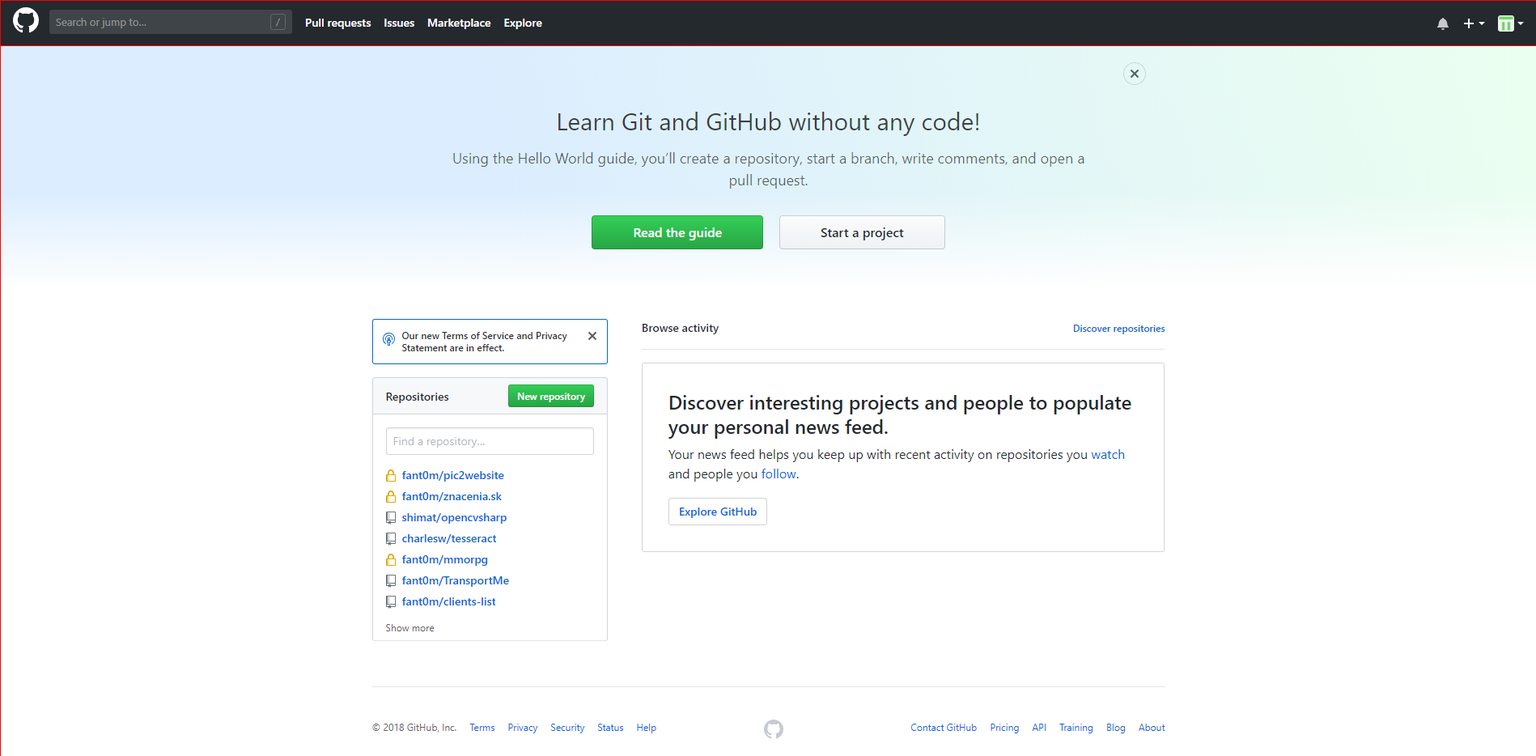
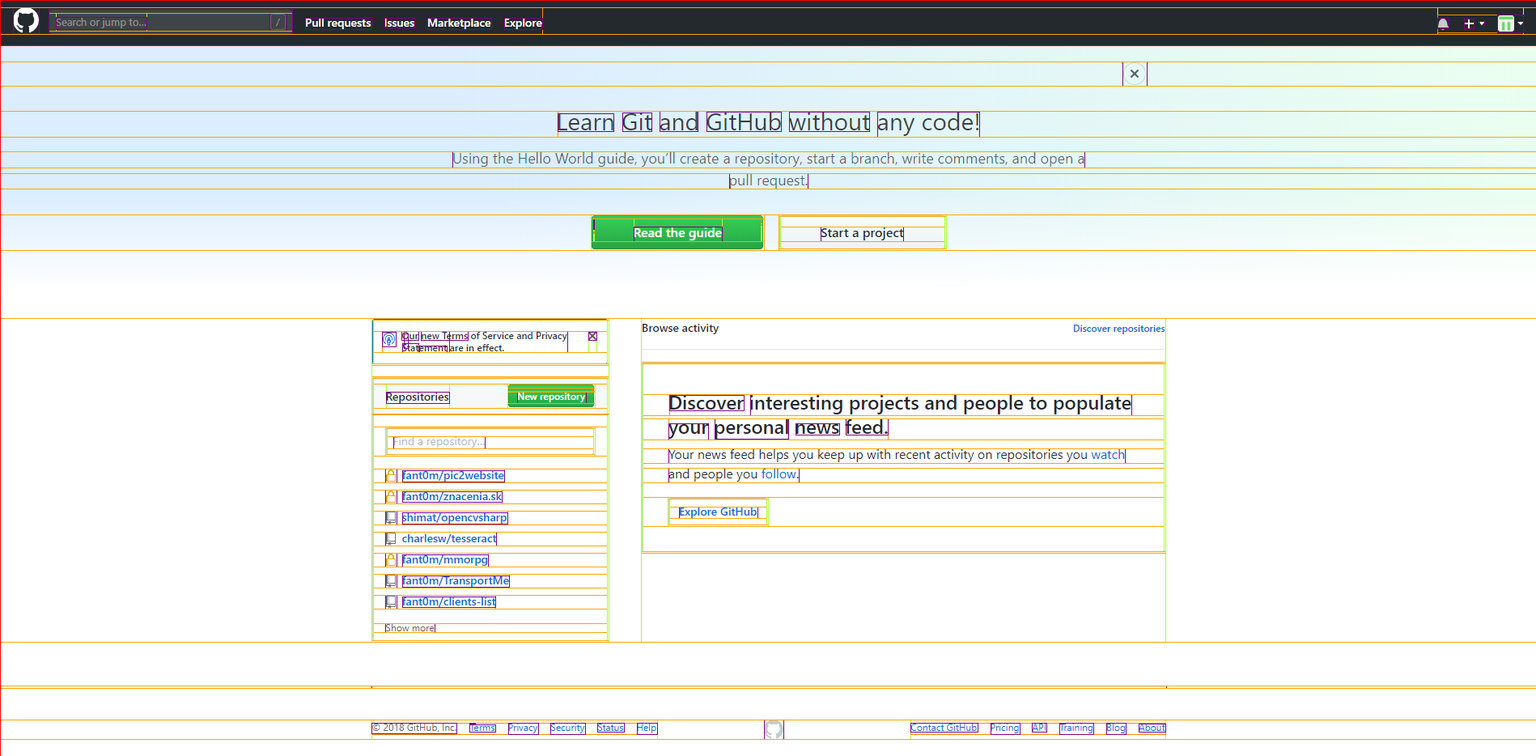
padding/margin update

diff --git a/RazorPagesMovie/test.html b/RazorPagesMovie/test.html
@@ -1,1 +1,1 @@
-<!DOCTYPE html><html><head><link href="C:/Users/tomsh/source/repos/RazorPagesMovie/RazorPagesMovie/wwwroot/style.css" rel="stylesheet"><meta charset="UTF-8"><title>Test</title><style>section { width: 100%; }</style></head><body><section style="height:56px;background: rgb(169,83,191);margin:0px 0px 0px 0px;padding:0px 0px 0px 0px;"><div class="container-fluid"></div></section><section style="height:878px;background: rgb(73,44,190);margin:0px 0px 0px 0px;padding:0px 0px 0px 0px;"><div class="container"></div></section></body></html>
+<!DOCTYPE html><html><head><link href="C:/Users/tomsh/source/repos/RazorPagesMovie/RazorPagesMovie/wwwroot/style.css" rel="stylesheet"><meta charset="UTF-8"><title>Test</title><style>section { width: 100%; }</style></head><body><section style="height:56px;background: rgb(52,126,37);margin:0px 0px 0px 0px;padding:0px 0px 0px 0px;"><div class="container-fluid" style="width:2000px;"><div class="row" style="background: rgb(41,169,231);margin:0px 0px 0px 0px;padding:9px 16px 14px 16px;"><div class="col" style="width:654px;margin:0px 1106px 0px 0px;padding:0px 0px 0px 0px;"><div class="row" style="margin:0px 0px 0px 0px;padding:0px 0px 0px 0px;"><div class="col" style="margin:0px 0px 0px 0px;padding:0px 0px 0px 0px;"><img src="C:/Users/tomsh/source/repos/RazorPagesMovie/RazorPagesMovie/wwwroot/images/image-3.png" style="margin:0px 0px 0px 0px;padding:0px 0px 0px 0px;"/><img src="C:/Users/tomsh/source/repos/RazorPagesMovie/RazorPagesMovie/wwwroot/images/image-4.png" style="margin:0px 0px 0px 12px;padding:0px 0px 0px 0px;"/><img src="C:/Users/tomsh/source/repos/RazorPagesMovie/RazorPagesMovie/wwwroot/images/image-5.png" style="margin:0px 0px 0px 16px;padding:0px 0px 0px 0px;"/><img src="C:/Users/tomsh/source/repos/RazorPagesMovie/RazorPagesMovie/wwwroot/images/image-6.png" style="margin:0px 0px 0px 16px;padding:0px 0px 0px 0px;"/><img src="C:/Users/tomsh/source/repos/RazorPagesMovie/RazorPagesMovie/wwwroot/images/image-7.png" style="margin:0px 0px 0px 16px;padding:0px 0px 0px 0px;"/><img src="C:/Users/tomsh/source/repos/RazorPagesMovie/RazorPagesMovie/wwwroot/images/image-8.png" style="margin:0px 0px 0px 16px;padding:0px 0px 0px 0px;"/></div></div></div><div class="col" style="margin:0px 0px 0px 0px;padding:0px 0px 0px 0px;"><div class="row" style="margin:0px 0px 0px 0px;padding:9px 0px 2px 0px;"><div class="col" style="margin:0px 0px 0px 0px;padding:0px 0px 0px 0px;"><img src="C:/Users/tomsh/source/repos/RazorPagesMovie/RazorPagesMovie/wwwroot/images/image-9.png" style="margin:0px 0px 0px 0px;padding:0px 0px 0px 0px;"/><img src="C:/Users/tomsh/source/repos/RazorPagesMovie/RazorPagesMovie/wwwroot/images/image-10.png" style="margin:0px 0px 0px 19px;padding:0px 0px 0px 0px;"/><img src="C:/Users/tomsh/source/repos/RazorPagesMovie/RazorPagesMovie/wwwroot/images/image-11.png" style="margin:0px 0px 0px 7px;padding:0px 0px 0px 0px;"/><img src="C:/Users/tomsh/source/repos/RazorPagesMovie/RazorPagesMovie/wwwroot/images/image-12.png" style="margin:0px 0px 0px 16px;padding:0px 0px 0px 0px;"/></div></div></div></div></div></section><section style="height:878px;background: rgb(252,88,19);margin:0px 0px 0px 0px;padding:0px 0px 0px 0px;"><div class="container" style="width:1200px;"><div class="row" style="background: rgb(247,216,108);margin:0px 0px 0px 0px;padding:76px 371px 0px 1277px;"><div class="col" style="margin:0px 0px 0px 0px;padding:0px 0px 0px 0px;"><div class="row" style="margin:0px 0px 0px 0px;padding:0px 0px 0px 0px;"><div class="col" style="margin:0px 0px 0px 0px;padding:0px 0px 0px 0px;"><img src="C:/Users/tomsh/source/repos/RazorPagesMovie/RazorPagesMovie/wwwroot/images/image-50.png" style="margin:0px 0px 0px 0px;padding:0px 0px 0px 0px;"/></div></div></div></div><div class="row" style="background: rgb(218,134,229);margin:0px 0px 0px 0px;padding:31px 578px 0px 579px;"><div class="col" style="margin:0px 0px 0px 0px;padding:0px 0px 0px 0px;"><div class="row" style="margin:0px 0px 0px 0px;padding:0px 0px 0px 0px;"><div class="col" style="margin:0px 0px 0px 0px;padding:0px 0px 0px 0px;"><img src="C:/Users/tomsh/source/repos/RazorPagesMovie/RazorPagesMovie/wwwroot/images/image-51.png" style="margin:0px 0px 0px 0px;padding:0px 0px 0px 0px;"/><img src="C:/Users/tomsh/source/repos/RazorPagesMovie/RazorPagesMovie/wwwroot/images/image-52.png" style="margin:0px 0px 0px 11px;padding:0px 0px 0px 0px;"/><img src="C:/Users/tomsh/source/repos/RazorPagesMovie/RazorPagesMovie/wwwroot/images/image-53.png" style="margin:0px 0px 0px 10px;padding:0px 0px 0px 0px;"/><img src="C:/Users/tomsh/source/repos/RazorPagesMovie/RazorPagesMovie/wwwroot/images/image-54.png" style="margin:0px 0px 0px 11px;padding:0px 0px 0px 0px;"/><img src="C:/Users/tomsh/source/repos/RazorPagesMovie/RazorPagesMovie/wwwroot/images/image-55.png" style="margin:0px 0px 0px 10px;padding:0px 0px 0px 0px;"/><img src="C:/Users/tomsh/source/repos/RazorPagesMovie/RazorPagesMovie/wwwroot/images/image-56.png" style="margin:0px 0px 0px 10px;padding:0px 0px 0px 0px;"/></div></div></div></div><div class="row" style="background: rgb(148,223,182);margin:0px 0px 0px 0px;padding:18px 448px 0px 449px;"><div class="col" style="margin:0px 0px 0px 0px;padding:0px 0px 0px 0px;"><div class="row" style="margin:0px 0px 0px 0px;padding:0px 0px 0px 0px;"><div class="col" style="margin:0px 0px 0px 0px;padding:0px 0px 0px 0px;"><img src="C:/Users/tomsh/source/repos/RazorPagesMovie/RazorPagesMovie/wwwroot/images/image-57.png" style="margin:0px 0px 0px 0px;padding:0px 0px 0px 0px;"/></div></div></div></div><div class="row" style="background: rgb(152,86,152);margin:0px 0px 0px 0px;padding:7px 790px 0px 791px;"><div class="col" style="margin:0px 0px 0px 0px;padding:0px 0px 0px 0px;"><div class="row" style="margin:0px 0px 0px 0px;padding:0px 0px 0px 0px;"><div class="col" style="margin:0px 0px 0px 0px;padding:0px 0px 0px 0px;"><img src="C:/Users/tomsh/source/repos/RazorPagesMovie/RazorPagesMovie/wwwroot/images/image-58.png" style="margin:0px 0px 0px 0px;padding:0px 0px 0px 0px;"/></div></div></div></div><div class="row" style="background: rgb(115,78,124);margin:0px 0px 0px 0px;padding:32px 619px 0px 620px;"><div class="col" style="margin:0px 0px 0px 0px;padding:0px 0px 0px 0px;"><div class="row" style="background: rgb(133,57,129);margin:0px 0px 0px 0px;padding:0px 0px 0px 0px;"><div class="col" style="margin:0px 0px 0px 0px;padding:0px 0px 0px 0px;"><div class="row" style="background: rgb(49,118,130);margin:0px 0px 0px 0px;padding:5px 3px 11px 3px;"><div class="col" style="width:1px;margin:0px 49px 0px 0px;padding:0px 0px 0px 0px;"><div class="row" style="margin:0px 0px 0px 0px;padding:0px 0px 0px 0px;"><div class="col" style="margin:0px 0px 0px 0px;padding:0px 0px 0px 0px;"><img src="C:/Users/tomsh/source/repos/RazorPagesMovie/RazorPagesMovie/wwwroot/images/image-13.png" style="margin:0px 0px 0px 0px;padding:0px 0px 0px 0px;"/></div></div><div class="row" style="margin:0px 0px 0px 0px;padding:3px 0px 10px 0px;"><div class="col" style="margin:0px 0px 0px 0px;padding:0px 0px 0px 0px;"></div></div></div><div class="col" style="width:109px;margin:0px 48px 0px 0px;padding:0px 0px 0px 0px;"><div class="row" style="margin:0px 0px 0px 0px;padding:10px 0px 0px 0px;"><div class="col" style="margin:0px 0px 0px 0px;padding:0px 0px 0px 0px;"><img src="C:/Users/tomsh/source/repos/RazorPagesMovie/RazorPagesMovie/wwwroot/images/image-14.png" style="margin:0px 0px 0px 0px;padding:0px 0px 0px 0px;"/></div></div></div><div class="col" style="margin:0px 0px 0px 0px;padding:0px 0px 0px 0px;"><div class="row" style="margin:0px 0px 0px 0px;padding:1px 0px 0px 0px;"><div class="col" style="margin:0px 0px 0px 0px;padding:0px 0px 0px 0px;"></div></div><div class="row" style="margin:0px 0px 0px 0px;padding:2px 0px 20px 0px;"><div class="col" style="margin:0px 0px 0px 0px;padding:0px 0px 0px 0px;"></div></div></div></div></div></div><div class="row" style="background: rgb(133,57,129);margin:0px 0px 0px 0px;padding:0px 0px 0px 0px;"><div class="col" style="margin:0px 0px 0px 0px;padding:0px 0px 0px 0px;"><div class="row" style="background: rgb(49,118,130);margin:0px 0px 0px 0px;padding:5px 3px 11px 3px;"><div class="col" style="width:1px;margin:0px 49px 0px 0px;padding:0px 0px 0px 0px;"><div class="row" style="margin:0px 0px 0px 0px;padding:0px 0px 0px 0px;"><div class="col" style="margin:0px 0px 0px 0px;padding:0px 0px 0px 0px;"><img src="C:/Users/tomsh/source/repos/RazorPagesMovie/RazorPagesMovie/wwwroot/images/image-13.png" style="margin:0px 0px 0px 0px;padding:0px 0px 0px 0px;"/></div></div><div class="row" style="margin:0px 0px 0px 0px;padding:3px 0px 10px 0px;"><div class="col" style="margin:0px 0px 0px 0px;padding:0px 0px 0px 0px;"></div></div></div><div class="col" style="width:109px;margin:0px 48px 0px 0px;padding:0px 0px 0px 0px;"><div class="row" style="margin:0px 0px 0px 0px;padding:10px 0px 0px 0px;"><div class="col" style="margin:0px 0px 0px 0px;padding:0px 0px 0px 0px;"><img src="C:/Users/tomsh/source/repos/RazorPagesMovie/RazorPagesMovie/wwwroot/images/image-14.png" style="margin:0px 0px 0px 0px;padding:0px 0px 0px 0px;"/></div></div></div><div class="col" style="margin:0px 0px 0px 0px;padding:0px 0px 0px 0px;"><div class="row" style="margin:0px 0px 0px 0px;padding:1px 0px 0px 0px;"><div class="col" style="margin:0px 0px 0px 0px;padding:0px 0px 0px 0px;"></div></div><div class="row" style="margin:0px 0px 0px 0px;padding:2px 0px 20px 0px;"><div class="col" style="margin:0px 0px 0px 0px;padding:0px 0px 0px 0px;"></div></div></div></div></div></div></div></div><div class="row" style="background: rgb(107,178,228);margin:0px 0px 0px 0px;padding:84px 349px 0px 349px;"><div class="col" style="width:293px;margin:0px 40px 0px 0px;padding:0px 0px 0px 0px;"><div class="row" style="background: rgb(21,190,35);margin:0px 0px 0px 0px;padding:0px 0px 0px 0px;"><div class="col" style="margin:0px 0px 0px 0px;padding:0px 0px 0px 0px;"><div class="row" style="background: rgb(116,200,98);margin:0px 0px 0px 0px;padding:2px 2px 2px 2px;"><div class="col" style="margin:0px 0px 0px 0px;padding:0px 0px 0px 0px;"><div class="row" style="background: rgb(246,146,176);margin:0px 0px 0px 0px;padding:0px 0px 0px 0px;"><div class="col" style="margin:0px 0px 0px 0px;padding:0px 0px 0px 0px;"><div class="row" style="background: rgb(227,51,254);margin:0px 0px 0px 0px;padding:14px 13px 14px 11px;"><div class="col" style="width:229px;margin:0px 26px 0px 0px;padding:0px 0px 0px 0px;"><div class="row" style="margin:0px 0px 0px 0px;padding:0px 0px 0px 0px;"><div class="col" style="margin:0px 0px 0px 0px;padding:0px 0px 0px 0px;"><img src="C:/Users/tomsh/source/repos/RazorPagesMovie/RazorPagesMovie/wwwroot/images/image-16.png" style="margin:0px 0px 0px 0px;padding:0px 0px 0px 0px;"/><img src="C:/Users/tomsh/source/repos/RazorPagesMovie/RazorPagesMovie/wwwroot/images/image-17.png" style="margin:0px 0px 0px 7px;padding:0px 0px 0px 0px;"/><img src="C:/Users/tomsh/source/repos/RazorPagesMovie/RazorPagesMovie/wwwroot/images/image-18.png" style="margin:0px 0px 0px -20px;padding:0px 0px 0px 0px;"/><img src="C:/Users/tomsh/source/repos/RazorPagesMovie/RazorPagesMovie/wwwroot/images/image-19.png" style="margin:0px 0px 0px -18px;padding:0px 0px 0px 0px;"/><img src="C:/Users/tomsh/source/repos/RazorPagesMovie/RazorPagesMovie/wwwroot/images/image-20.png" style="margin:0px 0px 0px 14px;padding:0px 0px 0px 0px;"/><img src="C:/Users/tomsh/source/repos/RazorPagesMovie/RazorPagesMovie/wwwroot/images/image-21.png" style="margin:0px 0px 0px -32px;padding:0px 0px 0px 0px;"/><img src="C:/Users/tomsh/source/repos/RazorPagesMovie/RazorPagesMovie/wwwroot/images/image-22.png" style="margin:0px 0px 0px -23px;padding:0px 0px 0px 0px;"/></div></div></div><div class="col" style="margin:0px 0px 0px 0px;padding:0px 0px 0px 0px;"><div class="row" style="margin:0px 0px 0px 0px;padding:1px 0px 15px 0px;"><div class="col" style="margin:0px 0px 0px 0px;padding:0px 0px 0px 0px;"><img src="C:/Users/tomsh/source/repos/RazorPagesMovie/RazorPagesMovie/wwwroot/images/image-23.png" style="margin:0px 0px 0px 0px;padding:0px 0px 0px 0px;"/></div></div></div></div></div></div></div></div></div></div><div class="row" style="background: rgb(21,190,35);margin:0px 0px 0px 0px;padding:0px 0px 0px 0px;"><div class="col" style="margin:0px 0px 0px 0px;padding:0px 0px 0px 0px;"><div class="row" style="background: rgb(116,200,98);margin:0px 0px 0px 0px;padding:2px 2px 2px 2px;"><div class="col" style="margin:0px 0px 0px 0px;padding:0px 0px 0px 0px;"><div class="row" style="background: rgb(246,146,176);margin:0px 0px 0px 0px;padding:0px 0px 0px 0px;"><div class="col" style="margin:0px 0px 0px 0px;padding:0px 0px 0px 0px;"><div class="row" style="background: rgb(227,51,254);margin:0px 0px 0px 0px;padding:14px 13px 14px 11px;"><div class="col" style="width:229px;margin:0px 26px 0px 0px;padding:0px 0px 0px 0px;"><div class="row" style="margin:0px 0px 0px 0px;padding:0px 0px 0px 0px;"><div class="col" style="margin:0px 0px 0px 0px;padding:0px 0px 0px 0px;"><img src="C:/Users/tomsh/source/repos/RazorPagesMovie/RazorPagesMovie/wwwroot/images/image-16.png" style="margin:0px 0px 0px 0px;padding:0px 0px 0px 0px;"/><img src="C:/Users/tomsh/source/repos/RazorPagesMovie/RazorPagesMovie/wwwroot/images/image-17.png" style="margin:0px 0px 0px 7px;padding:0px 0px 0px 0px;"/><img src="C:/Users/tomsh/source/repos/RazorPagesMovie/RazorPagesMovie/wwwroot/images/image-18.png" style="margin:0px 0px 0px -20px;padding:0px 0px 0px 0px;"/><img src="C:/Users/tomsh/source/repos/RazorPagesMovie/RazorPagesMovie/wwwroot/images/image-19.png" style="margin:0px 0px 0px -18px;padding:0px 0px 0px 0px;"/><img src="C:/Users/tomsh/source/repos/RazorPagesMovie/RazorPagesMovie/wwwroot/images/image-20.png" style="margin:0px 0px 0px 14px;padding:0px 0px 0px 0px;"/><img src="C:/Users/tomsh/source/repos/RazorPagesMovie/RazorPagesMovie/wwwroot/images/image-21.png" style="margin:0px 0px 0px -32px;padding:0px 0px 0px 0px;"/><img src="C:/Users/tomsh/source/repos/RazorPagesMovie/RazorPagesMovie/wwwroot/images/image-22.png" style="margin:0px 0px 0px -23px;padding:0px 0px 0px 0px;"/></div></div></div><div class="col" style="margin:0px 0px 0px 0px;padding:0px 0px 0px 0px;"><div class="row" style="margin:0px 0px 0px 0px;padding:1px 0px 15px 0px;"><div class="col" style="margin:0px 0px 0px 0px;padding:0px 0px 0px 0px;"><img src="C:/Users/tomsh/source/repos/RazorPagesMovie/RazorPagesMovie/wwwroot/images/image-23.png" style="margin:0px 0px 0px 0px;padding:0px 0px 0px 0px;"/></div></div></div></div></div></div></div></div></div></div></div><div class="col" style="margin:0px 0px 0px 0px;padding:0px 0px 0px 0px;"></div></div><div class="row" style="background: rgb(74,64,239);margin:0px 0px 0px 0px;padding:54px 347px 0px 349px;"><div class="col" style="margin:0px 0px 0px 0px;padding:0px 0px 0px 0px;"><div class="row" style="margin:0px 0px 0px 0px;padding:0px 0px 0px 0px;"><div class="col" style="margin:0px 0px 0px 0px;padding:0px 0px 0px 0px;"><img src="C:/Users/tomsh/source/repos/RazorPagesMovie/RazorPagesMovie/wwwroot/images/image-59.png" style="margin:0px 0px 0px 0px;padding:0px 0px 0px 0px;"/></div></div></div></div><div class="row" style="background: rgb(87,83,4);margin:0px 0px 0px 0px;padding:39px 361px -35px 349px;"><div class="col" style="width:353px;margin:0px 132px 0px 0px;padding:0px 0px 0px 0px;"><div class="row" style="margin:0px 0px 0px 0px;padding:4px 0px 6px 0px;"><div class="col" style="margin:0px 0px 0px 0px;padding:0px 0px 0px 0px;"><img src="C:/Users/tomsh/source/repos/RazorPagesMovie/RazorPagesMovie/wwwroot/images/image-60.png" style="margin:0px 0px 0px 0px;padding:0px 0px 0px 0px;"/><img src="C:/Users/tomsh/source/repos/RazorPagesMovie/RazorPagesMovie/wwwroot/images/image-61.png" style="margin:0px 0px 0px 16px;padding:0px 0px 0px 0px;"/><img src="C:/Users/tomsh/source/repos/RazorPagesMovie/RazorPagesMovie/wwwroot/images/image-62.png" style="margin:0px 0px 0px -7px;padding:0px 0px 0px 0px;"/><img src="C:/Users/tomsh/source/repos/RazorPagesMovie/RazorPagesMovie/wwwroot/images/image-63.png" style="margin:0px 0px 0px 16px;padding:0px 0px 0px 0px;"/><img src="C:/Users/tomsh/source/repos/RazorPagesMovie/RazorPagesMovie/wwwroot/images/image-64.png" style="margin:0px 0px 0px 15px;padding:0px 0px 0px 0px;"/><img src="C:/Users/tomsh/source/repos/RazorPagesMovie/RazorPagesMovie/wwwroot/images/image-65.png" style="margin:0px 0px 0px 15px;padding:0px 0px 0px 0px;"/><img src="C:/Users/tomsh/source/repos/RazorPagesMovie/RazorPagesMovie/wwwroot/images/image-66.png" style="margin:0px 0px 0px 16px;padding:0px 0px 0px 0px;"/></div></div></div><div class="col" style="width:24px;margin:0px 157px 0px 0px;padding:0px 0px 0px 0px;"><div class="row" style="margin:0px 0px 0px 0px;padding:0px 0px 0px 0px;"><div class="col" style="margin:0px 0px 0px 0px;padding:0px 0px 0px 0px;"><img src="C:/Users/tomsh/source/repos/RazorPagesMovie/RazorPagesMovie/wwwroot/images/image-67.png" style="margin:0px 0px 0px 0px;padding:0px 0px 0px 0px;"/></div></div></div><div class="col" style="margin:0px 0px 0px 0px;padding:0px 0px 0px 0px;"><div class="row" style="margin:0px 0px 0px 0px;padding:4px 0px 6px 0px;"><div class="col" style="margin:0px 0px 0px 0px;padding:0px 0px 0px 0px;"><img src="C:/Users/tomsh/source/repos/RazorPagesMovie/RazorPagesMovie/wwwroot/images/image-68.png" style="margin:0px 0px 0px 0px;padding:0px 0px 0px 0px;"/><img src="C:/Users/tomsh/source/repos/RazorPagesMovie/RazorPagesMovie/wwwroot/images/image-69.png" style="margin:0px 0px 0px 16px;padding:0px 0px 0px 0px;"/><img src="C:/Users/tomsh/source/repos/RazorPagesMovie/RazorPagesMovie/wwwroot/images/image-70.png" style="margin:0px 0px 0px 15px;padding:0px 0px 0px 0px;"/><img src="C:/Users/tomsh/source/repos/RazorPagesMovie/RazorPagesMovie/wwwroot/images/image-71.png" style="margin:0px 0px 0px 16px;padding:0px 0px 0px 0px;"/><img src="C:/Users/tomsh/source/repos/RazorPagesMovie/RazorPagesMovie/wwwroot/images/image-72.png" style="margin:0px 0px 0px -7px;padding:0px 0px 0px 0px;"/><img src="C:/Users/tomsh/source/repos/RazorPagesMovie/RazorPagesMovie/wwwroot/images/image-73.png" style="margin:0px 0px 0px 16px;padding:0px 0px 0px 0px;"/><img src="C:/Users/tomsh/source/repos/RazorPagesMovie/RazorPagesMovie/wwwroot/images/image-74.png" style="margin:0px 0px 0px 16px;padding:0px 0px 0px 0px;"/></div></div></div></div></div></section></body></html>

diff --git a/RazorPagesMovie/wwwroot/style.css b/RazorPagesMovie/wwwroot/style.css
@@ -3,13 +3,15 @@
     padding: 0;
 }
 .container {
-    width: 1200px;
     position: relative;
     margin: 0 auto;
-    background: blue;
 }
 .row {
     width: 100%;
+}
+.row:before {
+    display: table;
+    content: " ";
 }
 .row:after {
     clear: both;
@@ -18,8 +20,10 @@
 }
 .col {
     float: left;
+    position: relative;
 }
-img {
-    display: inline-block;
-    vertical-align: middle;
+* {
+    -webkit-box-sizing: border-box;
+    -moz-box-sizing: border-box;
+    box-sizing: border-box;
 }

diff --git a/RazorPagesMovie/core/TemplateParser.cs b/RazorPagesMovie/core/TemplateParser.cs
@@ -246,11 +246,8 @@ namespace RazorPagesMovie.core
                     section.Height = rect.Y - lastSectionY;
                     section.Top = lastSectionY;
                     section.BackgroundColor = new[] {r.Next(0, 255), r.Next(0, 255), r.Next(0, 255)};
-                    ;
-                    //container = new Container(sectionId);
-                    //image = new Image("./images/section-" + sectionId + ".png");
-                    //container.Elements.Add(image);
-                    //section.Containers.Add(container);
+
+                    // Add section to sections list
                     sections.Add(section);
 
                     // Save section image
@@ -278,10 +275,6 @@ namespace RazorPagesMovie.core
             var lastSection = new Section(sectionId);
             lastSection.Height = _image.Height - lastSectionY;
             lastSection.BackgroundColor = new[] { r.Next(0, 255), r.Next(0, 255), r.Next(0, 255) };
-            //container = new Container(sectionId);
-            //image = new Image("./images/section-" + sectionId + ".png");
-            //container.Elements.Add(image);
-            //lastSection.Containers.Add(container);
 
             // Save section image
             area = new Rect(0, lastSectionY, _image.Width, lastSection.Height);
@@ -301,6 +294,7 @@ namespace RazorPagesMovie.core
                 var contours = sectionContours[section.Id];
 
                 // Analyse section layout
+                //section.Layout = DetectLayout(contours, copy.Width, section.Height);
                 section.Layout = DetectLayout(contours, copy.Width, section.Height);
 
                 // Save longest layout width
@@ -323,9 +317,13 @@ namespace RazorPagesMovie.core
                 var contours = sectionContours[section.Id];
 
                 // Create a container
-                var container = new Container(1, section.Layout.Type);
+                var container = new Container(1, section.Layout);
                 var containerRect = new Rect(0, section.Top, copy.Width, section.Height);
-                //container.Rows = ProcessInnerBlocks(contours, copy, containerRect);
+
+                // Process inner blocks
+                container.Rows = ProcessInnerBlocks(contours, copy, containerRect, section.Layout.Type == Layout.LayoutType.Centered ? section.Layout.Padding / 2 : 0);
+
+                // Append container to section
                 section.Containers.Add(container);
 
                 // Draw section
@@ -335,7 +333,6 @@ namespace RazorPagesMovie.core
                 // Append section into template structure
                 _templateStructure.Sections.Add(section);
             }
-
 
             copy.SaveImage("wwwroot/images/output.png");
 
@@ -370,7 +367,7 @@ namespace RazorPagesMovie.core
                         if (subitem.Child != -1)
                         {
                             // Recursive call with child element
-                            // @todo uložiť child
+                            // @todo zmazať - tuto rekurzívne do n-tej úrovne už nejdeme
                            // CheckSubBlocks(find, copy);
                         }
                     }
@@ -387,7 +384,7 @@ namespace RazorPagesMovie.core
                 // We have found inner elements
                 if (inner.Count > 0)
                 {
-                    List<Row> rows = ProcessInnerBlocks(inner, copy, rect, true);
+                    List<Row> rows = ProcessInnerBlocks(inner, copy, rect);
 
                     return rows;
                 }
@@ -414,7 +411,7 @@ namespace RazorPagesMovie.core
             return contoursAp.Length == 4 && rect.Width >= 10 && rect.Height >= 10;
         }
 
-        private List<Row> ProcessInnerBlocks(List<int> contours, Mat copy, Rect parent = new Rect(), bool recursive = true)
+        private List<Row> ProcessInnerBlocks(List<int> contours, Mat copy, Rect parent = new Rect(), double paddingOffset = 0)
         {
             var r = new Random();
             var sectionRows = new List<Row>();
@@ -424,7 +421,6 @@ namespace RazorPagesMovie.core
             var k = 0;
             foreach (var contour in contours)
             {
-                //Debug.WriteLine("filling " + contour);
                 // Edges
                 var edges = _contours[contour];
 
@@ -432,13 +428,8 @@ namespace RazorPagesMovie.core
                 var rect = Cv2.BoundingRect(edges);
                 sectionRects[k] = rect;
 
-                if (recursive)
-                {
-                    Debug.WriteLine("processing recursive " + k);
-                    sectionRectRows[k] = CheckSubBlocks(contour, copy);
-                    // @todo ak tu mám dáta tak to nižšie nemusím riešiť asi keďže element je len obdĺžnik a v ňom je niečo
-                    // @todo asi len vytvoriť riadok do neho poskladať contours a každý contour už len buď analyzovať alebo zobrať hodnotu z premennej sectionRectRows[k]
-                }
+                Debug.WriteLine("processing sub blocks " + k);
+                sectionRectRows[k] = CheckSubBlocks(contour, copy);
 
                 k++;
             }
@@ -460,6 +451,20 @@ namespace RazorPagesMovie.core
                 var rowIndex = FindRowForRect(rows, rect);
                 if (rowIndex == -1)
                 {
+                    // set last row dimensions
+                    if (rows.Count > 0)
+                    {
+                        var latest = rows.Last();
+                        var sorted = latest.Item3.OrderBy(rec => rec.Left).ToList();
+
+                        // @todo neviem či budeme riešiť aj double alebo sa to zaokrúhli
+                        // apply right padding for row
+                        latest.Element.Padding[1] = (int) (parent.X + parent.Width - (sorted.Last().X + sorted.Last().Width) - paddingOffset);
+
+                        // apply left padding for row
+                        latest.Element.Padding[3] = (int) (sorted.First().X - parent.X - paddingOffset);
+                    }
+
                     // create section row
                     var sectionRow = new Row(1);
 
@@ -499,6 +504,14 @@ namespace RazorPagesMovie.core
             if (last != null)
             {
                 last.Element.Padding[2] = parent.Y + parent.Height - last.Item2;
+
+                var sorted = last.Item3.OrderBy(rec => rec.Left).ToList();
+
+                // apply right padding for row
+                last.Element.Padding[1] = (int) (parent.X + parent.Width - (sorted.Last().X + sorted.Last().Width) - paddingOffset);
+
+                // apply left padding for row
+                last.Element.Padding[3] = (int) (sorted.First().X - parent.X - paddingOffset);
             }
 
             // proceed rows
@@ -533,12 +546,6 @@ namespace RazorPagesMovie.core
                             var latestElem = latest.Element;
                             latestElem.Width = latest.Item2 - latest.Item1;
                             latestElem.Margin[1] = rect.X - latest.Item2;
-
-                            // apply left margin for the first column
-                            if (latest == columns.First())
-                            {
-                                latestElem.Margin[3] = latest.Item1 - parent.X;
-                            }
                         }
 
                         // create new column
@@ -560,13 +567,6 @@ namespace RazorPagesMovie.core
                     }
                 }
 
-                // apply styles for last column
-                var lastColumn = columns.Last();
-                if (lastColumn != null)
-                {
-                    lastColumn.Element.Margin[1] = parent.X + parent.Width - lastColumn.Item2;
-                }
-
                 // draw columns
                 foreach (var column in columns)
                 {
@@ -579,36 +579,34 @@ namespace RazorPagesMovie.core
                 // process columns into rows
                 foreach (var column in columns)
                 {
-                    var recursiveRows = false;
                     // when we have nested elements we don't need to analyse single contour
-                    if (recursive)
+                    var recursiveRows = false;
+
+                    // @todo bude to mať vždy iba 1 element či sa môže stať že aj viac?
+                    var recursiveAdded = 0;
+                    foreach (var e in column.Item3)
                     {
+                        var index = Array.IndexOf(sectionRectsUnsorted, column.Item3.First());
+                        Debug.WriteLine("našiel som index " + index + " počet v zozname " + column.Item3.Count);
 
-                        // @todo bude to mať vždy iba 1 element či sa môže stať že aj viac?
-                        var recursiveAdded = 0;
-                        foreach (var e in column.Item3)
+                        if (sectionRectRows[index] != null)
                         {
-                            var index = Array.IndexOf(sectionRectsUnsorted, column.Item3.First());
-                            Debug.WriteLine("našiel som index " + index + " počet v zozname " + column.Item3.Count);
-
-                            if (sectionRectRows[index] != null)
+                            recursiveRows = true;
+                            recursiveAdded++;
+                            Debug.WriteLine("zoznam nie je prázdny :O " + sectionRectRows[index].Count);
+                            foreach (var columnRow in sectionRectRows[index])
                             {
-                                recursiveRows = true;
-                                recursiveAdded++;
-                                Debug.WriteLine("zoznam nie je prázdny :O " + sectionRectRows[index].Count);
-                                foreach (var columnRow in sectionRectRows[index])
-                                {
-                                    ((Column)column.Element).Elements.Add(columnRow);
-                                }
-                                //break;
+                                ((Column)column.Element).Elements.Add(columnRow);
                             }
-                        }
-
-                        if (recursiveAdded > 1)
-                        {
-                            throw new Exception("nemalo by byť viac ako 1");
+                            //break;
                         }
                     }
+
+                    //if (recursiveAdded > 1)
+                    //{
+                    //    throw new Exception("nemalo by byť viac ako 1");
+                    //}
+                    
 
                     if (recursiveRows) break;
 

diff --git a/RazorPagesMovie/core/model/elements/Container.cs b/RazorPagesMovie/core/model/elements/Container.cs
@@ -8,20 +8,22 @@ namespace RazorPagesMovie.core.model.elements
 {
     public class Container : Element
     {
-        public Layout.LayoutType LayoutType { get; set; }
+        //public Layout.LayoutType LayoutType { get; set; }
+        // @todo určite to nebude duplicitne aj tu aj v section
+        public Layout Layout { get; set; }
         public List<Row> Rows { get; set; }
-        public Container(int id, Layout.LayoutType layoutType)
+        public Container(int id, Layout layout)
         {
             Id = id;
             Rows = new List<Row>();
-            LayoutType = layoutType;
+            Layout = layout;
         }
 
         public override string StartTag()
         {
-            var type = LayoutType == Layout.LayoutType.Centered ? "container" : "container-fluid";
+            var type = Layout.Type == Layout.LayoutType.Centered ? "container" : "container-fluid";
 
-            return $"<div class=\"{type}\">";
+            return $"<div class=\"{type}\" style=\"width:{(int) Layout.Width}px;\">";
         }
 
         public override string Content()
